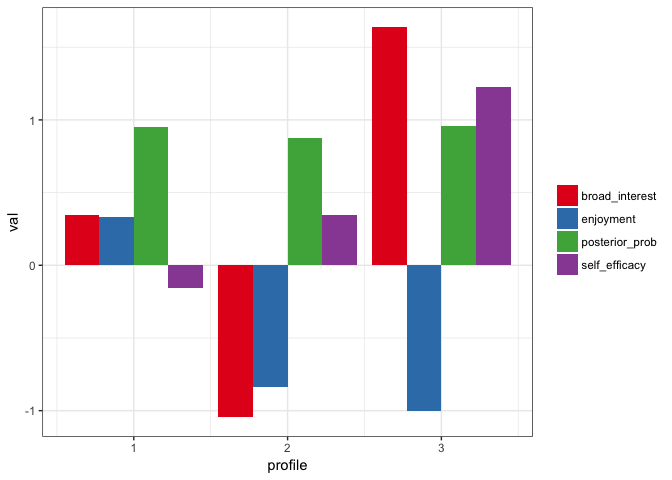
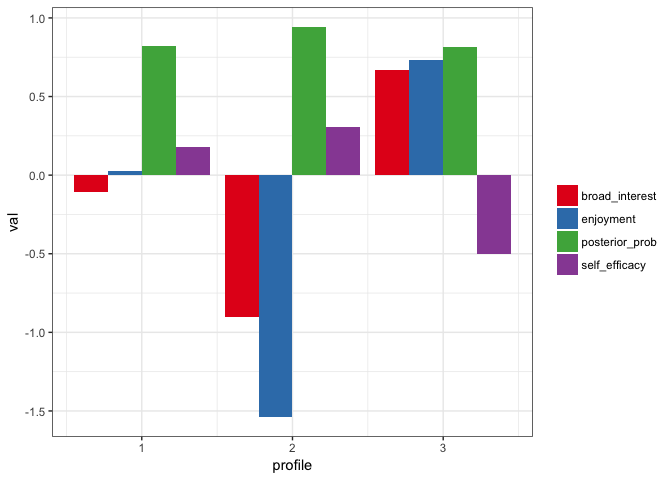
update README

diff --git a/README.md b/README.md
@@ -30,44 +30,61 @@ library(dplyr)
 #>     intersect, setdiff, setequal, union
 d <- pisaUSA15
 d <- sample_n(pisaUSA15, 200)
-m3 <- create_profiles_lpa(d, broad_interest, enjoyment, self_efficacy, n_profiles = 3, model = 2)
-#> Model with 3 profiles using the 'varying means, equal variances and covariances' model.
-#> AIC is 1177.4
-#> BIC is 1232.51
-#> ICL is 1263.251
-#> Entropy is 0.93032
+m3 <- create_profiles_lpa(d, broad_interest, enjoyment, self_efficacy, n_profiles = 3, model = 1)
+#> Model with 3 profiles using the 'varying means, equal variances, and residual covariances fixed to zero' model.
+#> AIC is 1167.482
+#> BIC is 1212.792
+#> ICL is 1285.864
+#> Entropy is 0.83877
 plot_profiles_lpa(m3, to_center = TRUE)
 ```
 
 ![](README-unnamed-chunk-4-1.png)
+
+See `?create_profiles_lpa` for a description of the models; model `2` as specified in this example is for a model with varying means across profiles, but equal variances across profiles, and residual covariances fixed to zero.
+
+We could specify other models:
+
+``` r
+m3i <- create_profiles_lpa(d, broad_interest, enjoyment, self_efficacy, n_profiles = 3, model = 2)
+#> Model with 3 profiles using the 'varying means, equal variances and covariances' model.
+#> AIC is 1132.2
+#> BIC is 1187.22
+#> ICL is 1196.975
+#> Entropy is 0.978
+m3ii <- create_profiles_lpa(d, broad_interest, enjoyment, self_efficacy, n_profiles = 3, model = 3)
+#> Model with 3 profiles using the 'varying means, variances, and covariances' model.
+#> AIC is 1159.533
+#> BIC is 1253.39
+#> ICL is 1302.717
+#> Entropy is 0.88996
+```
 
 We can also extract the posterior probabilities by setting `return_posterior_probs` to `TRUE`:
 
 ``` r
 m3 <- create_profiles_lpa(d, broad_interest, enjoyment, self_efficacy, n_profiles = 3, model = 2, return_posterior_probs = TRUE)
 #> Model with 3 profiles using the 'varying means, equal variances and covariances' model.
-#> AIC is 1177.4
-#> BIC is 1232.51
-#> ICL is 1263.251
-#> Entropy is 0.93032
+#> AIC is 1132.2
+#> BIC is 1187.22
+#> ICL is 1196.975
+#> Entropy is 0.978
 m3
-#> # A tibble: 189 x 5
+#> # A tibble: 188 x 5
 #>    broad_interest enjoyment self_efficacy profile posterior_prob
 #>  *          <dbl>     <dbl>         <dbl>   <dbl>          <dbl>
-#>  1            3.4       3.0      1.750000       1        0.99836
-#>  2            2.8       3.4      2.125000       1        0.98890
-#>  3            1.4       2.0      2.375000       2        0.98077
-#>  4            3.2       3.0      1.750000       1        0.99643
-#>  5            3.0       3.0      1.375000       1        0.99416
-#>  6            3.4       3.8      2.000000       1        0.99956
-#>  7            2.6       2.8      1.666667       1        0.94932
-#>  8            3.4       2.8      1.625000       1        0.99782
-#>  9            3.2       3.0      2.625000       1        0.99276
-#> 10            3.4       3.0      1.375000       1        0.99880
-#> # ... with 179 more rows
+#>  1            3.2       3.0         2.125       1        0.99986
+#>  2            1.0       1.0         2.750       2        0.99890
+#>  3            2.0       2.2         2.625       1        0.95880
+#>  4            4.0       3.0         2.000       1        0.99737
+#>  5            1.0       1.0         2.125       2        0.99972
+#>  6            1.2       1.0         2.500       2        0.99934
+#>  7            2.8       2.8         1.375       1        0.99623
+#>  8            3.8       3.2         1.250       1        0.99983
+#>  9            4.0       3.2         1.000       1        0.99970
+#> 10            2.8       3.0         1.500       1        0.99946
+#> # ... with 178 more rows
 ```
-
-See `?create_profiles_lpa` for a description of the models; model `2` as specified in this example is for a model with varying means but equal variances and covariances across profiles.
 
 We can also explore a range of models (here using the built-in `iris` dataset, as this function takes longer to run with larger datasets):
 
@@ -76,4 +93,4 @@ d <- iris
 compare_models_lpa(d, Sepal.Length, Sepal.Width, Petal.Length, Petal.Width)
 ```
 
-![](README-unnamed-chunk-6-1.png)
+![](README-unnamed-chunk-7-1.png)
